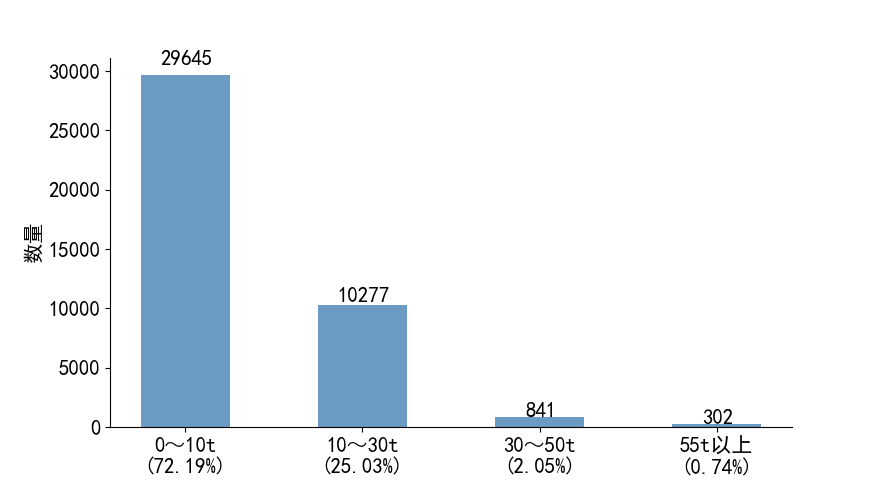
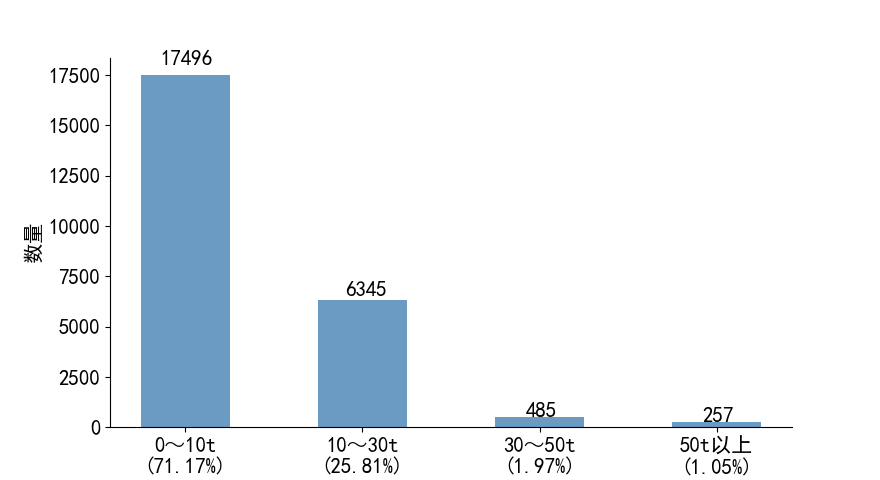
upgrade data

diff --git a/PythonApplication/PythonApplication.py b/PythonApplication/PythonApplication.py
@@ -88,10 +88,10 @@ def plotItem(plt,itemChosen):
     #不同时间段车辆总数
     #不同速度车辆数及比例
     y_dataList=[
-    [29645,10277,841,302],
-    [29325,3337,2791,8215],
-    [2351,1807,1626,6865,10933,10500,10787,11880,12731,7865,4426,2962],
-    [556,21221,54025,8931]
+    [17496,6345,485,257],
+    [16992,1974,745,5925],
+    [1343,1028,1019,4198,6646,6222,6415,6705,7281,4723,2756,1883],
+    [316,11751,32799,5353]
     ]
 
     ## 包含每个柱子对应值的序列
@@ -129,8 +129,8 @@ def plotItem(plt,itemChosen):
     #不同时间段车辆总数
     #不同速度车辆数及比例
     xticksPrefixList=[
-    ['0～10t','10～30t','30～50t','55t以上'],
-    ['0～10t','10～30t','30～50t','55t以上'],
+    ['0～10t','10～30t','30～50t','50t以上'],
+    ['0～10t','10～30t','30～50t','50t以上'],
     ['0～2','2～4','4～6','6～8','8～10','10～12','12～14','14～16','16～18','18～20','20～22','22～24'],
     ['0～2km/h','20～40km/h','40～60km/h','60km/h以上']
     ]

diff --git a/HelinConsoleApp/Program.cs b/HelinConsoleApp/Program.cs
@@ -81,7 +81,7 @@ namespace HelinConsoleApp
             var Gross_Load_Dist = new List<int>();
             var Gross_Load_Dist2 = new List<int>();
 
-            var StartDataTime = new DateTime(2020, 3, 21, 0, 0, 0);
+            var StartDataTime = new DateTime(2020, 4, 1, 0, 0, 0);
             var FinishDataTime = new DateTime(2020, 4, 16, 0, 0, 0);
 
             //Expression<Func<HS_Data_201908, bool>> dataPredicate = x => x.HSData_DT >= StartDataTime && x.HSData_DT <= FinishDataTime;
